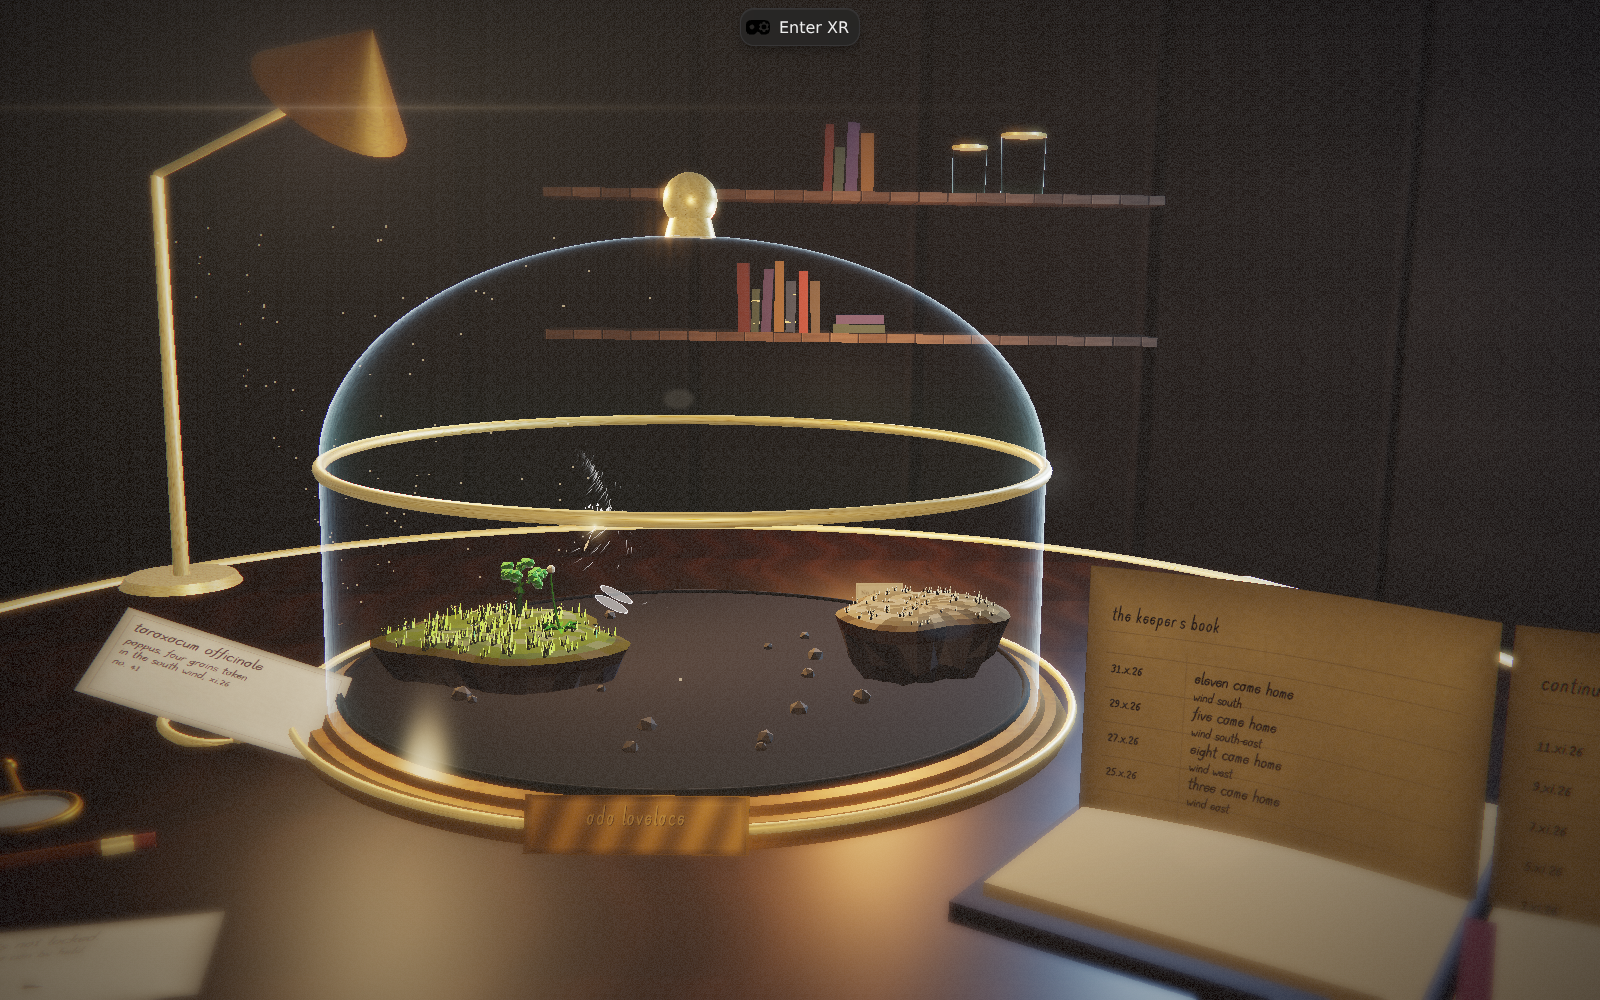
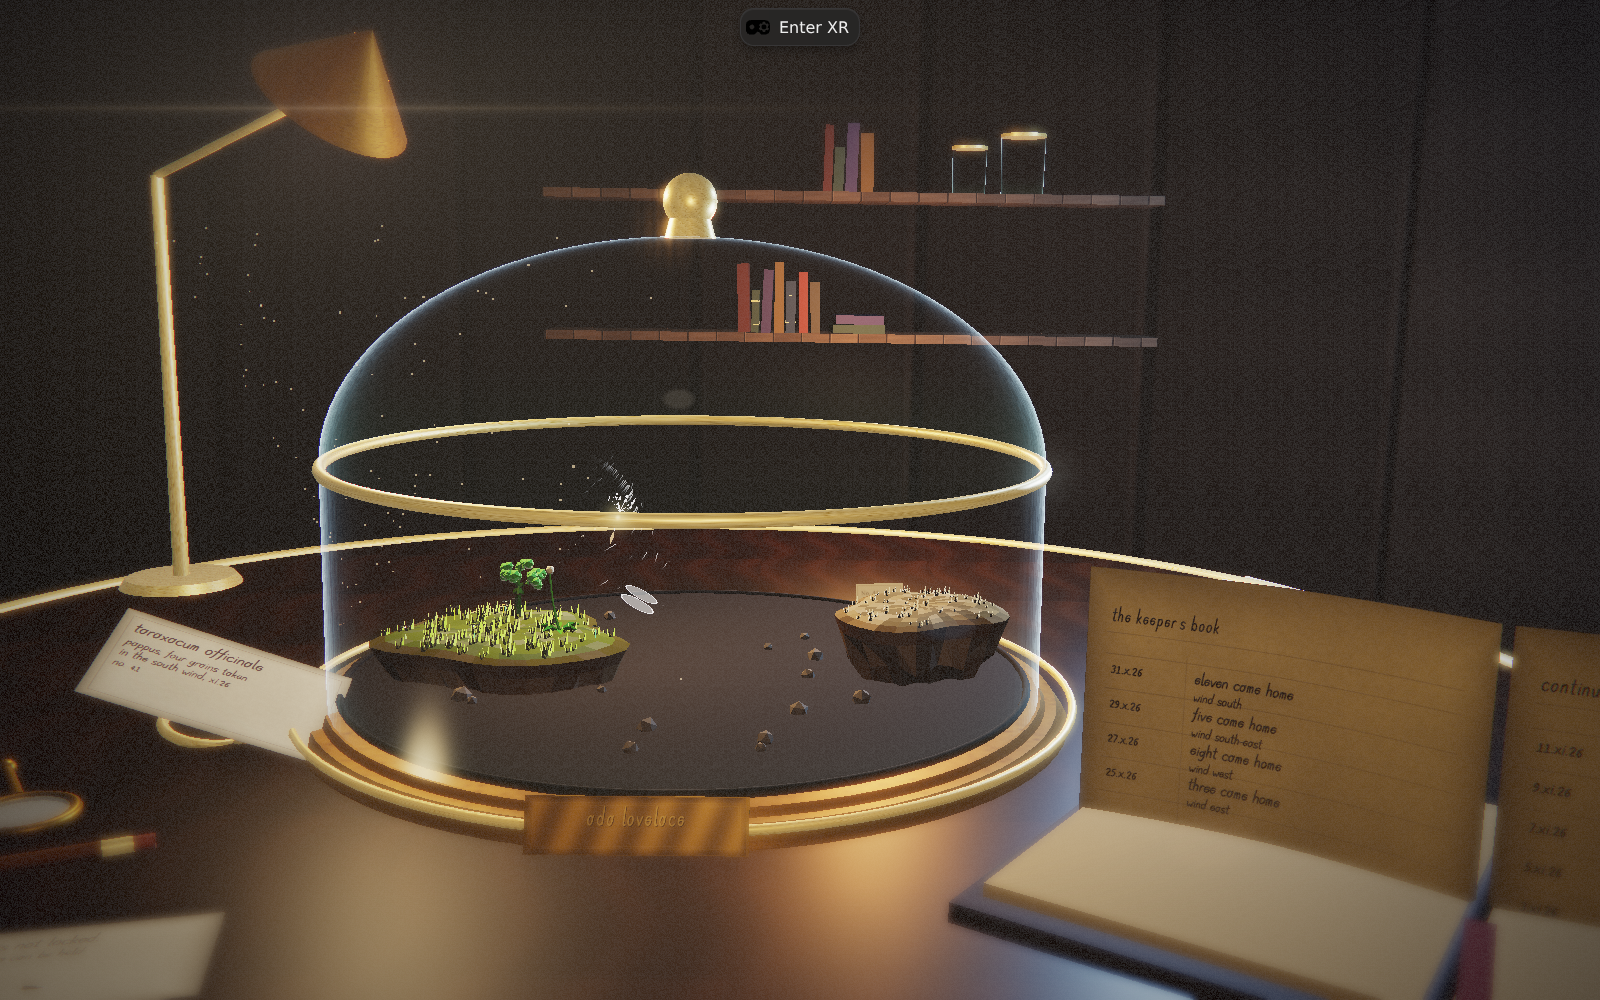
islands: beds in the underside rock instead of a brown gradient
Colour only. Cutting extra ledges into the silhouette made it read as a
decorated cake, so the strata live in the palette: each ring lands on a bed
boundary that dips and rises around the island.

Also updates the honest list in the direction doc — the glass, the depth of
field and the tree are no longer on it.

diff --git a/src/render/islands.ts b/src/render/islands.ts
@@ -31,6 +31,19 @@ const DRY = new Color(0x9c8a6a);
 const DRY_2 = new Color(0x84765c);
 const EARTH = new Color(0x5a3d2b);
 const ROCK = new Color(0x6a5f5e);
+/**
+ * Beds. Rock is laid down in courses, and courses are what the eye counts on
+ * the underside of a floating island. Colour only: the silhouette is already
+ * doing the work, and cutting extra ledges into it just made the thing look
+ * like a decorated cake.
+ */
+const STRATA = [
+  new Color(0x7d6852),
+  new Color(0x584a3c),
+  new Color(0x6f5741),
+  new Color(0x453d36),
+  new Color(0x5f5142),
+];
 const ROCK_DEEP = new Color(0x3b3333);
 const STONE = new Color(0x6f6660);
 
@@ -123,6 +136,7 @@ export function buildIslandView(island: Island, lush: boolean): IslandView {
     {
       const ax = px(1, ta), az = pz(1, ta), bx = px(1, tb), bz = pz(1, tb);
       shade(c1, EARTH, (rnd(s, 40, 2) - 0.5) * 0.25);
+      c1.lerp(STRATA[0], 0.35);
       const col = c1.clone();
       const k = 0.94;
       b.tri(ax, top(1, ta), az, bx, top(1, tb), bz, ax * k, bot(1, ta) - 0.1, az * k, col);
@@ -149,8 +163,16 @@ export function buildIslandView(island: Island, lush: boolean): IslandView {
       U(r, s + 1, B);
       U(r + 1, s, C);
       U(r + 1, s + 1, D);
-      c1.copy(ROCK).lerp(ROCK_DEEP, depth);
-      shade(c1, c1, (rnd(s, r, 3) - 0.5) * 0.3);
+      // each ring lands on a bed boundary, and the boundary is not flat: the
+      // beds dip and rise around the island, which is what makes them read as
+      // strata rather than as banding in a shader
+      const bedF = (depth + (rnd(s, 0, 12) - 0.5) * 0.34) * STRATA.length;
+      const bi = Math.max(0, Math.min(STRATA.length - 1, Math.floor(bedF)));
+      const frac = Math.max(0, Math.min(1, bedF - bi));
+      c1.copy(STRATA[bi]);
+      if (bi < STRATA.length - 1 && frac > 0.72) c1.lerp(STRATA[bi + 1], (frac - 0.72) / 0.28);
+      c1.lerp(ROCK_DEEP, Math.pow(depth, 2.4) * 0.7);
+      shade(c1, c1, (rnd(s, r, 3) - 0.5) * 0.26);
       b.tri(A[0], A[1], A[2], B[0], B[1], B[2], C[0], C[1], C[2], c1.clone());
       if (r < UNDER - 1) {
         shade(c1, c1, (rnd(s, r, 4) - 0.5) * 0.2);

diff --git a/docs/CABINET_DIRECTION.md b/docs/CABINET_DIRECTION.md
@@ -189,16 +189,20 @@ is exactly the kind of thing that only shows up when you look at the picture.)
 
 ## Still wrong — the honest list
 
-1. **The glass is still milky.** A fresnel rim plus reflections is most of the
-   way, but real glass also refracts the world behind it. That needs a
-   transmission pass or a screen-space sample; on Quest it needs measuring first.
-2. **The islands are still pancakes.** They are the specimen and they are the
-   weakest geometry in the frame: no strata, no coast, no scale cues beyond
-   grass. They need a rebuild with rock layers and a ragged shoreline.
-3. **Light has nowhere to fall.** Four dynamic lights is the budget; the room
-   behind the desk is still a black void with shelves floating in it.
-4. **No depth of field.** At 40 cm, everything is sharp, and that is the single
-   biggest reason the frame still reads as a render rather than a photograph.
+1. **The glass does not refract.** It has an edge, two highlights and a green
+   foot, and it reads as glass — but nothing behind it bends. A real refraction
+   needs a transmission pass or a screen-space sample; on Quest it needs
+   measuring first.
+2. **The islands are still pancakes.** The underside now carries beds instead of
+   a gradient, but the skyline is still flat and there are no scale cues beyond
+   grass. They are the specimen and they are the weakest geometry in the frame:
+   they need a rebuilt coastline with an overhang and a ragged edge.
+3. **The room behind the desk is still mostly a void.** The panelling helped;
+   the shelves still float, and there is no window to tell you where the cold
+   light on the right is coming from.
+4. ~~No depth of field.~~ Done in pass three, as a tilt-shift band. It is stable
+   because the camera is; if the camera ever moves, this needs a real depth
+   solve and the n/56-detail of that is written up in `src/render/post.ts`.
 5. **Nothing is pickable.** The loupe lies there. Picking it up and having the
    lens magnify is the next interaction, and the paperwork is what it magnifies.
 6. **On-device frame cost is unmeasured.** Spot shadows, a fresnel shader, a cube
